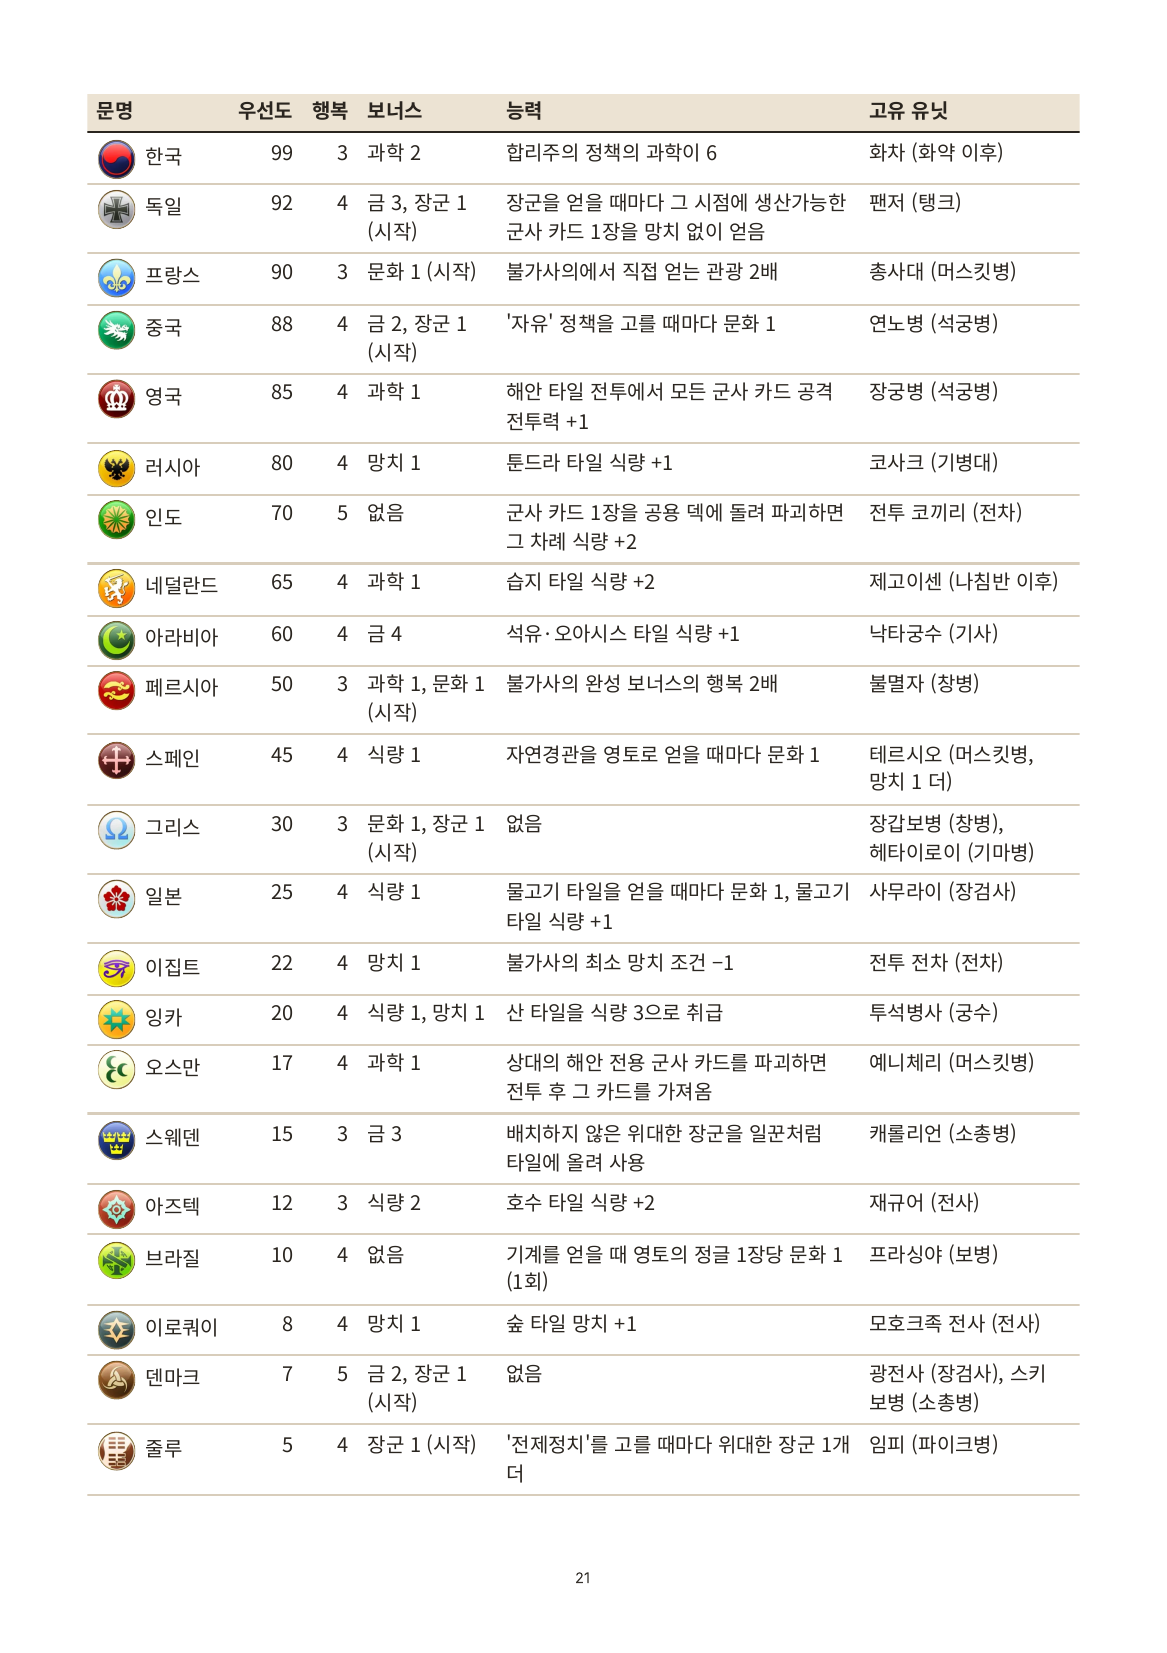
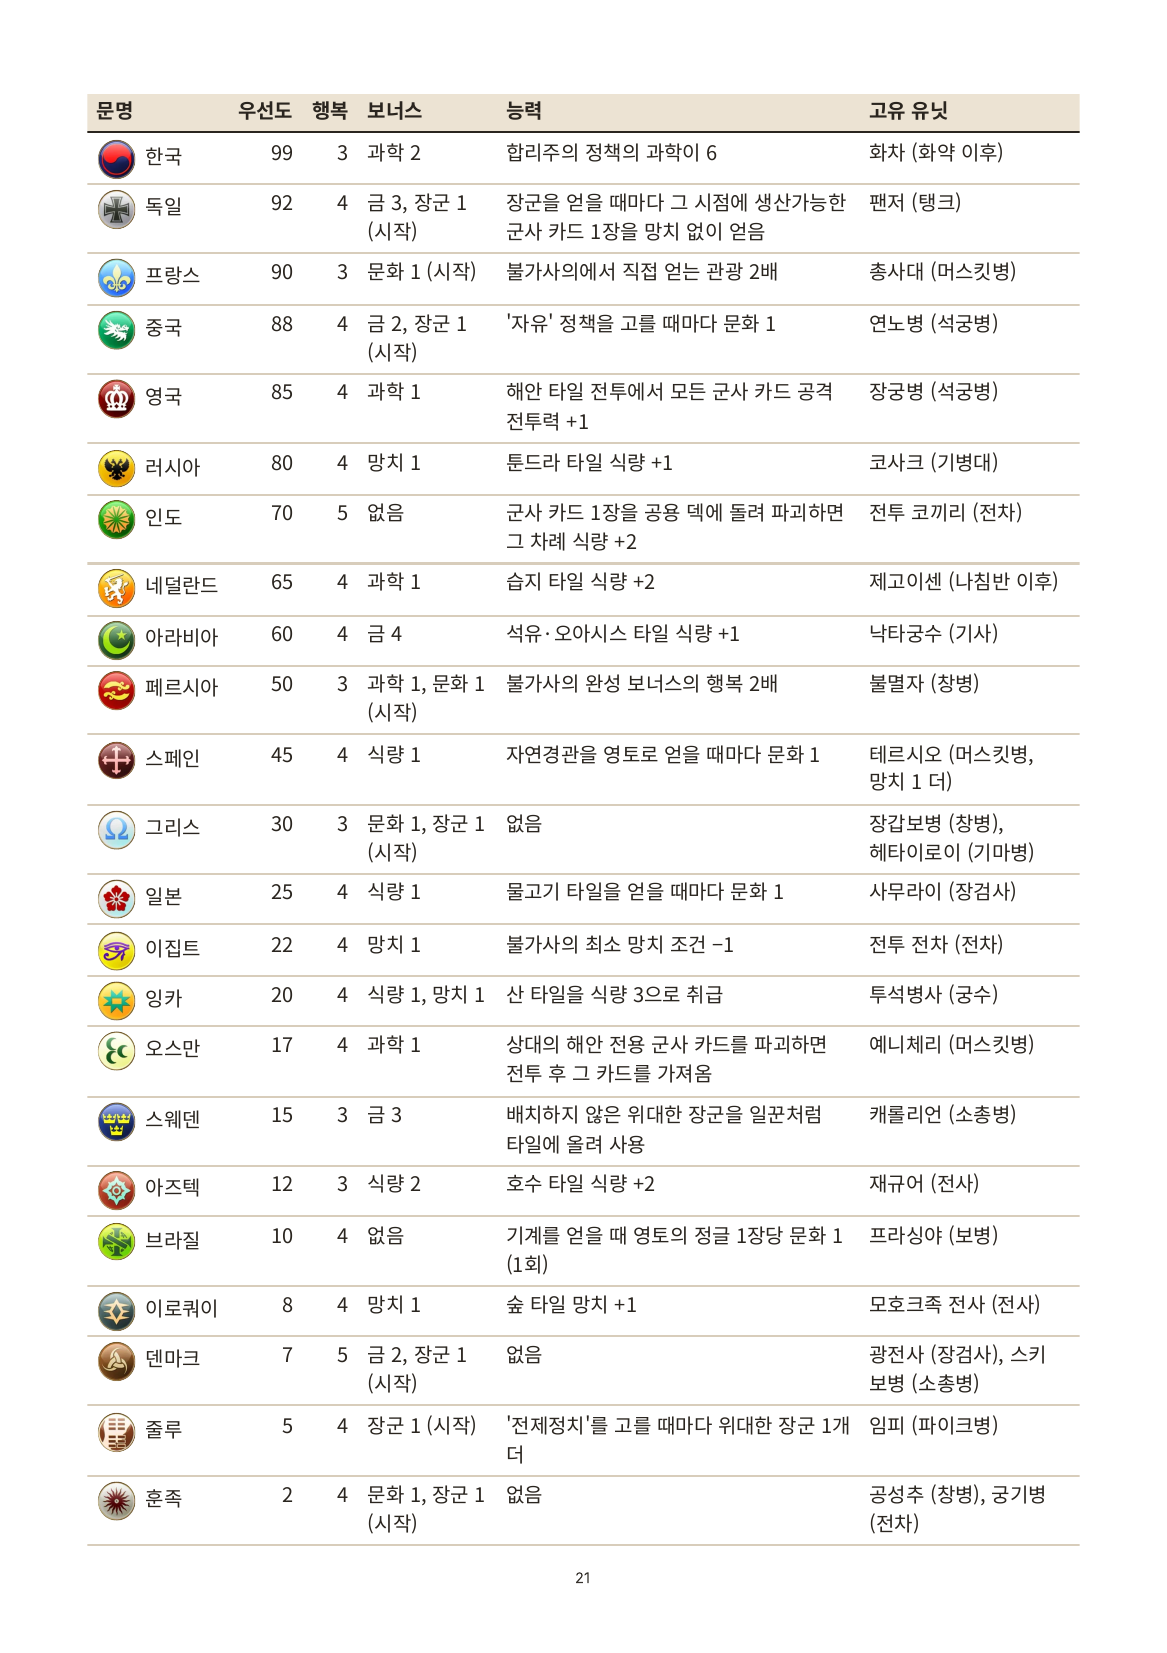
일본 문명 카드 수정: 물고기 타일 식량 +1 삭제
사용자가 준 문명 카드 20장과 데이터를 대조함. 일본만 달라서
능력을 '물고기 타일을 얻을 때마다 문화 1'로 고침. 테스트·규칙서·
설명서 PDF·open-questions(#58) 반영.

Claude-Session: https://claude.ai/code/session_01LEwiRiXRJPjckZxHM1aEbm

Changed region(s): [[0.2159, 0.5554, 0.8946, 0.9256], [0.0617, 0.5554, 0.1851, 0.9256], [0.6787, 0.5245, 0.7095, 0.5554]]

diff --git a/docs/rulebook/source/part4.html b/docs/rulebook/source/part4.html
@@ -20,7 +20,7 @@
       <tr><td style="white-space:nowrap"><img class="emb" src="assets/civ/persia.webp">페르시아</td><td class="num">50</td><td class="num">3</td><td>과학 1, 문화 1 (시작)</td><td>불가사의 완성 보너스의 행복 2배</td><td>불멸자 (창병)</td></tr>
       <tr><td style="white-space:nowrap"><img class="emb" src="assets/civ/spain.webp">스페인</td><td class="num">45</td><td class="num">4</td><td>식량 1</td><td>자연경관을 영토로 얻을 때마다 문화 1</td><td>테르시오 (머스킷병, 망치 1 더)</td></tr>
       <tr><td style="white-space:nowrap"><img class="emb" src="assets/civ/greece.webp">그리스</td><td class="num">30</td><td class="num">3</td><td>문화 1, 장군 1 (시작)</td><td>없음</td><td>장갑보병 (창병), 헤타이로이 (기마병)</td></tr>
-      <tr><td style="white-space:nowrap"><img class="emb" src="assets/civ/japan.webp">일본</td><td class="num">25</td><td class="num">4</td><td>식량 1</td><td>물고기 타일을 얻을 때마다 문화 1, 물고기 타일 식량 +1</td><td>사무라이 (장검사)</td></tr>
+      <tr><td style="white-space:nowrap"><img class="emb" src="assets/civ/japan.webp">일본</td><td class="num">25</td><td class="num">4</td><td>식량 1</td><td>물고기 타일을 얻을 때마다 문화 1</td><td>사무라이 (장검사)</td></tr>
       <tr><td style="white-space:nowrap"><img class="emb" src="assets/civ/egypt.webp">이집트</td><td class="num">22</td><td class="num">4</td><td>망치 1</td><td>불가사의 최소 망치 조건 −1</td><td>전투 전차 (전차)</td></tr>
       <tr><td style="white-space:nowrap"><img class="emb" src="assets/civ/inca.webp">잉카</td><td class="num">20</td><td class="num">4</td><td>식량 1, 망치 1</td><td>산 타일을 식량 3으로 취급</td><td>투석병사 (궁수)</td></tr>
       <tr><td style="white-space:nowrap"><img class="emb" src="assets/civ/ottoman.webp">오스만</td><td class="num">17</td><td class="num">4</td><td>과학 1</td><td>상대의 해안 전용 군사 카드를 파괴하면 전투 후 그 카드를 가져옴</td><td>예니체리 (머스킷병)</td></tr>

diff --git a/src/engine/__tests__/stage3.test.ts b/src/engine/__tests__/stage3.test.ts
@@ -1443,12 +1443,11 @@ describe('문명 능력 (전쟁·군사 관련)', () => {
     expect(tileYield(coast, ctxOf(withOptics)).hammer).toBe(tileYield(coast, ctxOf(p0)).hammer)
   })
 
-  it('일본: 물고기 타일은 식량 +1 (망치는 그대로)', () => {
+  it('일본: 물고기 타일 산출은 다른 문명과 같다 (식량 보너스 없음)', () => {
     const fish = tile(['해안'], { resource: 'fish' })
     const jp = tileYield(fish, ctxOf(found(startGame(['japan'], [hand4()])).players[0]))
     const kr = tileYield(fish, ctxOf(found(startGame(['korea'], [hand4()])).players[0]))
-    expect(jp.food - kr.food).toBe(1)
-    expect(jp.hammer - kr.hammer).toBe(0)
+    expect(jp).toEqual(kr)
   })
 
   it('일본: 물고기 타일을 얻을 때마다 문화 1 (연쇄)', () => {

diff --git a/docs/open-questions.md b/docs/open-questions.md
@@ -62,6 +62,7 @@
 | 55 | 공성추(훈족) 체력 | 사용자 결정(카드 수정): 체력 2 → 6 (야포와 비슷한 체력으로 설계). 비용 3, 방어력 1, 도시 파괴 효과는 그대로. 생산은 지금처럼 기초 카드(창병)가 생산불가가 되는 파이크병까지. 카드 그림은 사용자가 준 그림으로 교체 |
 | 56 | 해안 타일 구성과 물고기 | 사용자 결정(카드 수정): 자원 없는 해안 3장(96·98·100번)을 해안·물고기(식량 2), 해안·게, 해안·진주(식량 1·금 3)로 바꿈. 광학을 연구하면 물고기 타일 망치 +1 (해안·호수 모두, 바로 적용). 96번 그림은 사용자가 준 카드, 98·100번은 같은 자원의 기존 그림을 씀 |
 | 57 | 시작 장군과 장군 능력 (카드 수정) | 사용자 결정: 독일·중국·줄루·몽골·훈족은 위대한 장군 1개로 시작 (`startGenerals`). 중국 능력은 "자유 정책을 고를 때마다 문화 1" (처음엔 장군 1개였다가 카드 재수정), 줄루 능력은 "전제정치를 고를 때마다 장군 1개 더". 독일은 "장군을 얻는 그 시점에 생산가능한 군사 카드"만 무료로 받는다 (그때 만들 카드가 없으면 받지 못함, 시작 장군도 같음). 구현 해석: 정책을 "고를 때"만 해당 (불가사의·기술이 정책을 바꾸는 경우는 해당 없음, 전제정치의 장군과 같은 기준). ~~확인 필요: 줄루의 옛 능력 "자기 원래 영토가 대상인 전투에서는 임피 사용 불가"~~ → **해결(사용자 확인)**: 그 제한은 없앴다 (임피는 어느 전투에서나 쓴다). 덴마크·그리스도 장군 1개로 시작 (카드의 장군 그림) |
+| 58 | 문명 카드 20장 재확인 | 사용자 결정(카드 수정): 일본 능력은 "물고기 타일을 얻을 때마다 문화 1"만 남김 (물고기 타일 식량 +1 삭제). 나머지 19장(독일·아라비아·덴마크·그리스·한국·중국·프랑스·브라질·이집트·잉카·페르시아·인도·몽골·줄루·훈족·스웨덴·오스만·이로쿼이·아즈텍)은 데이터와 같음. 잉카 "산 타일 산출을 식량 3으로 취급할 수 있다": 산 타일은 원래 산출이 없어 항상 식량 3을 택하는 것과 같으므로 자동 적용. 아라비아 "자신의 차례에": 문명 효과는 원래 자기 산출에만 적용되므로 동작 같음. 영국·러시아·네덜란드·스페인 카드는 이번에 받지 않아 그대로 |
 
 ## 공개 범위 (설계 결정)
 - 공개: 타일·기술·정책·불가사의·군사 카드 **장수**, 로그에 남는 "무엇을 생산·승급했는지".

diff --git a/docs/rules.md b/docs/rules.md
@@ -795,8 +795,7 @@
 
   일본       25        4      식량1     물고기 타일을     사무라이
                                         얻을 때마다 문화  (장검사)
-                                        1, 물고기 타일    
-                                        식량 +1           
+                                        1                 
 
   이집트     22        4      망치 1    불가사의 최소     전투 전차 (전차)
                                         망치 조건 −1      
